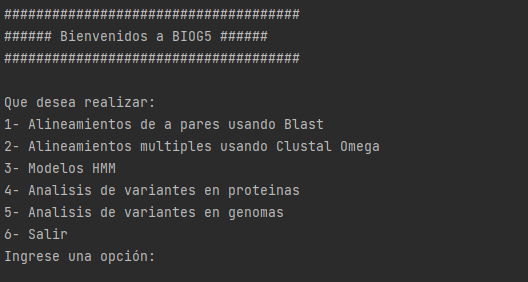
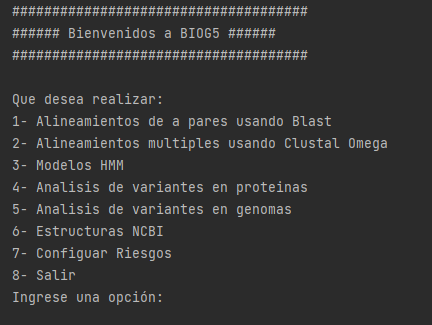
Datos para FrontEnd de GitHub

Changed region(s): [[0.0, 0.4255, 0.9028, 0.9362], [0.0, 0.0, 0.7222, 0.227], [0.0, 0.2837, 0.7824, 0.3972]]

diff --git a/README.md b/README.md
@@ -10,24 +10,23 @@ El sistema Biog5 para análisis, incia como trabajo final de la materia Bioinfor
 
 # Desarrollo etapas:
 
-1- Main 
+Main 
 
 !["E0"](https://github.com/biog5/HPV-master/blob/main/IMG/FrontEnd/A-R0.png)
 
-2- Alineamiento: 
+1- Alineamiento: 
 <pre>
-  2.1 Agrupamiento
+  1.1 Agrupamiento
   
-  2.2 Se utiliza en primera instacia Blastp para alinear las proteinas de cepas de alto riesgo contra las demas cepas
+  1.2 Se utiliza en primera instacia Blastp para alinear las proteinas de cepas de alto riesgo contra las demas cepas
   
-  2.3. Análisis de resultados
-  
+  1.3. Análisis de resultados 
 </pre>
 Menu
 
 !["E1-1"](https://github.com/biog5/HPV-master/blob/main/IMG/FrontEnd/A-R1-1.png)
 
-Lista de proteinas
+Lista de proteinas 
 
 !["E1-2"](https://github.com/biog5/HPV-master/blob/main/IMG/FrontEnd/A-R1-2.png)
 
@@ -35,39 +34,133 @@ Lista de genomas
 
 !["E1-3"](https://github.com/biog5/HPV-master/blob/main/IMG/FrontEnd/A-R1-3.png)
 
-Salida ejemplo
+1.1 Salida impresa
 
 !["E1-4"](https://github.com/biog5/HPV-master/blob/main/IMG/FrontEnd/A-R1-4.png)
 
-3- Alineamiento MSA: Se utilza clustalOmega y librerias de
+1.2 Salida menu
 
-Interfaz 
+!["E1-5"](https://github.com/biog5/HPV-master/blob/main/IMG/FrontEnd/A-R1-5.png)
+
+1.3 Salida gráfica
+
+!["E1-6"](https://github.com/biog5/HPV-master/blob/main/IMG/FrontEnd/A-R1-6.png)
+
+2- Alineamiento MSA: Se utilza Clustal Omega y librerias de biopython
+
+<pre>
+  2.1 Se realiza un alineamiento multiple (MSA) de todas las proteinas aprupadas por riesgos 
+  
+  2.2 Se generan y visualizan árboles filogenticos asociados a cada proteina
+</pr>
+
+2.1 Interfaz 
+
+!["E2-0"](https://github.com/biog5/HPV-master/blob/main/IMG/FrontEnd/A-R2-0.png)
+
+2.2 Árboles Filogenticos
 
 !["E2-1"](https://github.com/biog5/HPV-master/blob/main/IMG/FrontEnd/A-R2-1.png)
 
+3- Modelado HMM: Se utilza MAFFT para aliniamiento multiple y HMMER para modelos HMM
+<pre>
+  3.1 Se utiliza el pipeline biog5 y se generan modelos de altos riesgo para poteinas E1, E2, E7, L1, L2
+  
+  3.2 Se comparan las cepas con cada modelo
 
-arboles filogenticos
+  3.3 Se visualizan los resultados de forma impresa y gráfica
+</pr>
 
-!["E2-2"](https://github.com/biog5/HPV-master/blob/main/IMG/FrontEnd/A-R2-2.png)
+3.2 Salida impresa
+!["E3-0"](https://github.com/biog5/HPV-master/blob/main/IMG/FrontEnd/A-R3-0.png)
 
-4- Modelado HMM: Se utilza MAFFT para aliniamiento multiple y HMMER para modelos HMM
+3.2 Salida gráfica
+!["E3-1"](https://github.com/biog5/HPV-master/blob/main/IMG/FrontEnd/A-R3-1.png)
 
-!["E3"](https://github.com/biog5/HPV-master/blob/main/IMG/FrontEnd/A-R3.png)
+4- Variantes en proteinas
 
-5- Variantes en proteinas
+<pre>
+  4.1 Se realiza un alineamiento multiple por proteina y riesgo
+  
+  4.2 Se filtran solo los aminoacidos con un porcentaje de conservación ingresado
+
+  4.3 Se visualizan los resultados de forma impresa y gráfica
+</pr>
 
 Sub menu
  
+!["E4-0"](https://github.com/biog5/HPV-master/blob/main/IMG/FrontEnd/A-R4-0.png)
+
+Salida impresa
+
 !["E4-1"](https://github.com/biog5/HPV-master/blob/main/IMG/FrontEnd/A-R4-1.png)
 
-Impresión inline
+Salida gráfica
 
 !["E4-2"](https://github.com/biog5/HPV-master/blob/main/IMG/FrontEnd/A-R4-2.png)
 
-Impresión gráfica
+5- Variantes en genomas
+<pre>
+  4.1 Se realiza un alineamiento multiple de genomas completos dos o más
+  
+  4.2 Se filtran solo los aminoacidos con un porcentaje de conservación ingresado
 
-!["E4-3"](https://github.com/biog5/HPV-master/blob/main/IMG/FrontEnd/A-R4-3.png)
+  4.3 Se visualizan los resultados de forma impresa y gráfica
+</pr>
 
-6- Variantes en genomas
+!["E5"](https://github.com/biog5/HPV-master/blob/main/IMG/FrontEnd/A-R5.png)
 
-!["E3"](https://github.com/biog5/HPV-master/blob/main/IMG/FrontEnd/A-R5.png)
+6- Estructuras NCBI
+<pre>
+  5.1 Se buscan y alinean secuencias de proteinas contra estructuras del NCBI (pdb)
+  
+  5.2 Se descargan las de interes selecionadas
+
+  5.3 Se visualizan en un navegador
+</pr>
+
+5.1 Se busca y alinea una proteina de interes
+
+!["E6-0"](https://github.com/biog5/HPV-master/blob/main/IMG/FrontEnd/A-R6-0.png)
+
+!["E6-1"](https://github.com/biog5/HPV-master/blob/main/IMG/FrontEnd/A-R6-1.png)
+
+5.2 Se descarga la estructura
+
+!["E6-2"](https://github.com/biog5/HPV-master/blob/main/IMG/FrontEnd/A-R6-2.png)
+
+5.3 Se visualiza
+!["E6-3"](https://github.com/biog5/HPV-master/blob/main/IMG/FrontEnd/A-R6-3.png)
+
+!["E6-3"](https://github.com/biog5/HPV-master/blob/main/IMG/FrontEnd/A-R6-3.png)
+
+7- Configurar riesgos
+<pre>
+  7.1 Permite visualizar calsificaciones actuales
+  
+  7.2 Modificar, eliminar, agregar o restaurar nuevas cepas a las Clasificaciones
+
+  7.3 Modificar, eliminar, agregar o restaurar nuevas cepas a las Base de Datos 
+
+</pr>
+
+ 7.1 Listado actual
+
+!["E7-0"](https://github.com/biog5/HPV-master/blob/main/IMG/FrontEnd/A-R7-0.png)
+
+ 7.2 Ejemplo agregar una cepa a una clasificacion
+ 
+!["E7-1"](https://github.com/biog5/HPV-master/blob/main/IMG/FrontEnd/A-R7-1.png)
+
+!["E7-2"](https://github.com/biog5/HPV-master/blob/main/IMG/FrontEnd/A-R7-2.png)
+
+ 7.2 Ejemplo agregar una una nueva cepa
+ 
+!["E7-3"](https://github.com/biog5/HPV-master/blob/main/IMG/FrontEnd/A-R7-3.png)
+
+!["E7-4"](https://github.com/biog5/HPV-master/blob/main/IMG/FrontEnd/A-R7-4.png)
+
+!["E7-5"](https://github.com/biog5/HPV-master/blob/main/IMG/FrontEnd/A-R7-5.png)
+
+
+Version 1.4.0
